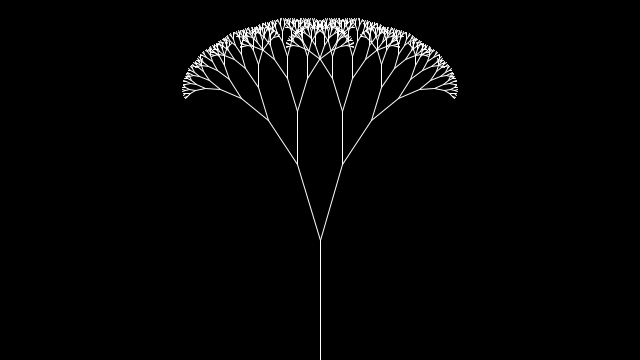
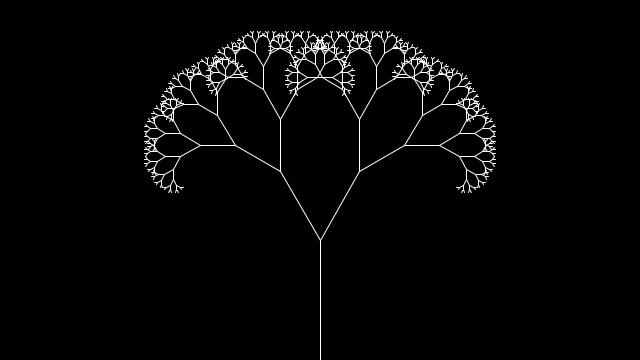
now, according to part two of The Coding Train's video, supports sending users tree with the angle they request (fixes #1)

diff --git a/bot.js b/bot.js
@@ -8,6 +8,7 @@ require('dotenv').config();
 const mastodon = require('mastodon-api');
 const fs = require('fs');
 const util = require('util');
+const { devNull } = require('os');
 const exec = util.promisify(require('child_process').exec);
 
 console.log('mastodon bot starting...');
@@ -20,31 +21,60 @@ const M = new mastodon({
     api_url: 'https://botsin.space/api/v1/', // optional, defaults to https://mastodon.social/api/v1/
 })
 
-setInterval(() => {
-    toot()
-        .then(response => console.log(response))
-        .catch(error => console.error(error));
-}, 60000);
+const listener = M.stream('streaming/user');
 
-async function toot() {
-    //builds tree
-    const response1 = await exec('processing-java --sketch="' + __dirname + '/treegen" --run');
-    const angle = response1.stdout.split('\n')[0].trimEnd();
+listener.on('message', response => {
+    if (response.event === 'notification' && response.data.type === 'mention') {
+        const content = response.data.status.content;
+        const cangle = content.replace(/FTB_36/g, '').match(/\d+/)
+        const acct = response.data.account.acct;
+        const reply_id = response.data.status.id;
+        if (cangle) {
+            angle = cangle[0]
+            grow(angle)
+                .then(() => upload('treegen/tree.png', `a fractal tree of ${angle}`))
+                .then(img_id => toot(`here is your tree, @${acct}, with angle ${angle}`, reply_id, img_id))
+                .catch(error => console.error(error))
+        } else {
+            toot(`@${acct}, please message me with a number!`, reply_id)
+        }  
+    }
+})
+
+async function grow(angle) {
+    //builds tree returns nothing
+    const response = await exec(`processing-java --sketch="${__dirname}/treegen" --run ${angle}`);
     console.log(angle)
-    
-    //uploads image
-    const params1 = {
-        file: fs.createReadStream('treegen/tree.png'),
-        description: `an RNG fractal tree with ${angle}`
-    }
-    const response2 = await M.post('media', params1);
-    const id = response2.data.id;
+}
 
-    //toots image
-    const params2 = {
-        status: `a tree tho (angle: ${angle})`,
-        media_ids: [id]
+async function upload(imgPath, imgDesc) { 
+    //uploads image returns image id
+    const params = {
+        file: fs.createReadStream(imgPath),
+        description: imgDesc
     }
-    const response3 = await M.post('statuses', params2)
-    return response3;
+    const response = await M.post('media', params);
+    const id = response.data.id;
+    console.log('uploaded')
+    return id
+}
+
+async function toot(message, reply_id, media) {
+    //toots image
+    let params = {}
+    if (media) {
+        params = {
+            status: message,
+            in_reply_to_id: reply_id,
+            media_ids: [media]
+        }
+    } else {
+        params = {
+            status: message,
+            in_reply_to_id: reply_id
+        }
+    }
+    const response = await M.post('statuses', params)
+    console.log(response)
+    return response;
 }
